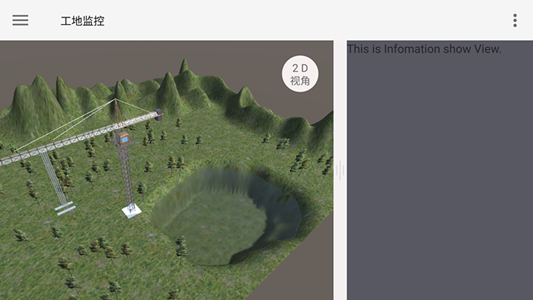
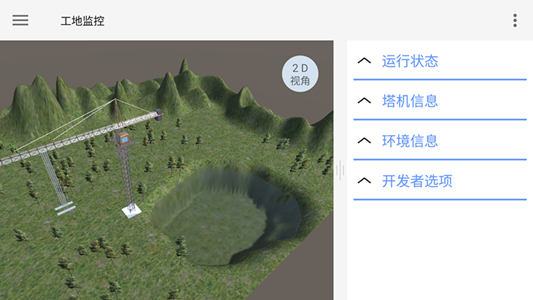
add panel items

diff --git a/app/src/main/java/com/jxlc/tajiproject/ui/layout/ConstructionSiteInfoPanel.java b/app/src/main/java/com/jxlc/tajiproject/ui/layout/ConstructionSiteInfoPanel.java
@@ -3,10 +3,10 @@ package com.jxlc.tajiproject.ui.layout;
 import android.content.Context;
 import android.support.annotation.NonNull;
 import android.util.AttributeSet;
-import android.util.Log;
 import android.view.LayoutInflater;
 import android.view.View;
 import android.widget.LinearLayout;
+import android.widget.TextView;
 
 import com.jxlc.tajiproject.R;
 import com.jxlc.tajiproject.ui.widgets.InfoPanelItemTitle;
@@ -16,11 +16,20 @@ import com.randal.aviana.ui.ExpandableLayout;
  * Created by Randal on 2017-05-13.
  */
 
-public class ConstructionSiteInfoPanel extends LinearLayout implements View.OnClickListener {
+public class ConstructionSiteInfoPanel extends LinearLayout {
     private Context mContext;
     private InfoPanelItemTitle mRunningStatusTitle;
-    private ExpandableLayout expandableLayout0;
-    private ExpandableLayout expandableLayout1;
+    private ExpandableLayout expand_running_status;
+    private TextView mRunningStatusTextView;
+
+    private InfoPanelItemTitle mTowerDataTitle;
+    private ExpandableLayout expand_tower_data;
+
+    private InfoPanelItemTitle mEnvDataTitle;
+    private ExpandableLayout expand_env_data;
+
+    private InfoPanelItemTitle mDeveloperTitle;
+    private ExpandableLayout expand_developer;
 
     public ConstructionSiteInfoPanel(@NonNull Context context) {
         this(context, null);
@@ -31,39 +40,65 @@ public class ConstructionSiteInfoPanel extends LinearLayout implements View.OnCl
         LayoutInflater.from(context).inflate(R.layout.layout_siteinfopanel, this, true);
         mContext = context;
 
-        expandableLayout0 = (ExpandableLayout) findViewById(R.id.expandable_layout_0);
-        expandableLayout1 = (ExpandableLayout) findViewById(R.id.expandable_layout_1);
-
-        expandableLayout0.setOnExpansionUpdateListener(new ExpandableLayout.OnExpansionUpdateListener() {
-            @Override
-            public void onExpansionUpdate(float expansionFraction, int state) {
-                Log.d("ExpandableLayout0", "State: " + state);
-            }
-        });
-
-        expandableLayout1.setOnExpansionUpdateListener(new ExpandableLayout.OnExpansionUpdateListener() {
-            @Override
-            public void onExpansionUpdate(float expansionFraction, int state) {
-                Log.d("ExpandableLayout1", "State: " + state);
-            }
-        });
-
+        mRunningStatusTextView = (TextView) findViewById(R.id.infopanel_runningstatus_textview);
+        expand_running_status = (ExpandableLayout) findViewById(R.id.expandable_running_status);
         mRunningStatusTitle = (InfoPanelItemTitle)findViewById(R.id.running_status_title);
-        mRunningStatusTitle.setOnClickListener(this);
-    }
+        mRunningStatusTitle.setOnClickListener(new OnClickListener() {
+            @Override
+            public void onClick(View view) {
+                if (expand_running_status.isExpanded()) {
+                    mRunningStatusTitle.setDirection(InfoPanelItemTitle.ARROW_UP);
+                    expand_running_status.collapse();
+                } else {
+                    mRunningStatusTitle.setDirection(InfoPanelItemTitle.ARROW_DOWN);
+                    expand_running_status.expand();
+                }
+            }
+        });
 
-    @Override
-    public void onClick(View view) {
-        if (expandableLayout0.isExpanded()) {
-            mRunningStatusTitle.setDirection(InfoPanelItemTitle.ARROW_UP);
-            expandableLayout0.collapse();
-        } else if (expandableLayout1.isExpanded()) {
-            mRunningStatusTitle.setDirection(InfoPanelItemTitle.ARROW_RIGHT);
-            expandableLayout1.collapse();
-        } else {
-            mRunningStatusTitle.setDirection(InfoPanelItemTitle.ARROW_LEFT);
-            expandableLayout0.expand();
-            expandableLayout1.expand();
-        }
+        expand_tower_data = (ExpandableLayout) findViewById(R.id.expandable_tower_data);
+        mTowerDataTitle = (InfoPanelItemTitle) findViewById(R.id.tower_data_title);
+        mTowerDataTitle.setOnClickListener(new OnClickListener() {
+            @Override
+            public void onClick(View view) {
+                if (expand_tower_data.isExpanded()) {
+                    mTowerDataTitle.setDirection(InfoPanelItemTitle.ARROW_UP);
+                    expand_tower_data.collapse();
+                } else {
+                    mTowerDataTitle.setDirection(InfoPanelItemTitle.ARROW_DOWN);
+                    expand_tower_data.expand();
+                }
+            }
+        });
+
+        expand_env_data = (ExpandableLayout) findViewById(R.id.expandable_env_data);
+        mEnvDataTitle = (InfoPanelItemTitle) findViewById(R.id.env_data_title);
+        mEnvDataTitle.setOnClickListener(new OnClickListener() {
+            @Override
+            public void onClick(View view) {
+                if (expand_env_data.isExpanded()) {
+                    mEnvDataTitle.setDirection(InfoPanelItemTitle.ARROW_UP);
+                    expand_env_data.collapse();
+                } else {
+                    mEnvDataTitle.setDirection(InfoPanelItemTitle.ARROW_DOWN);
+                    expand_env_data.expand();
+                }
+            }
+        });
+
+        expand_developer = (ExpandableLayout) findViewById(R.id.expandable_developer);
+        mDeveloperTitle = (InfoPanelItemTitle) findViewById(R.id.developer_title);
+        mDeveloperTitle.setOnClickListener(new OnClickListener() {
+            @Override
+            public void onClick(View view) {
+                if (expand_developer.isExpanded()) {
+                    mDeveloperTitle.setDirection(InfoPanelItemTitle.ARROW_UP);
+                    expand_developer.collapse();
+                } else {
+                    mDeveloperTitle.setDirection(InfoPanelItemTitle.ARROW_DOWN);
+                    expand_developer.expand();
+                }
+            }
+        });
     }
 }

diff --git a/app/src/main/java/com/jxlc/tajiproject/ui/widgets/InfoPanelItemTitle.java b/app/src/main/java/com/jxlc/tajiproject/ui/widgets/InfoPanelItemTitle.java
@@ -29,7 +29,7 @@ public class InfoPanelItemTitle extends RelativeLayout {
     public static final int ARROW_DOWN = 0x13;
 
     private static final int ARROW_HEIGHT = 18;      // dp
-    private static final int ARROW_MARGIN = 16;         // dp
+    private static final int ARROW_MARGIN = 12;         // dp
     private static final float ARROW_PAINT_WIDTH = 1.5f;      // dp
     private static final int ARROW_COLOR = Color.parseColor("#121A2A");
     private static final int TEXT_SIZE = 18;         // sp
